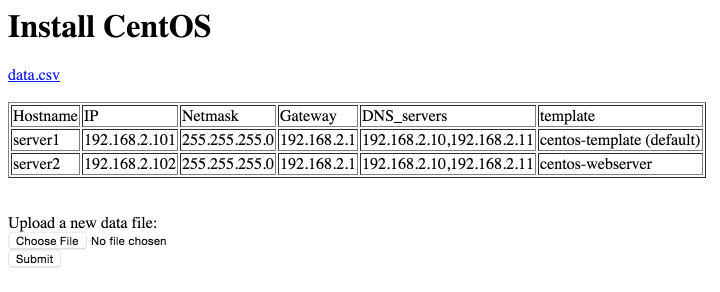
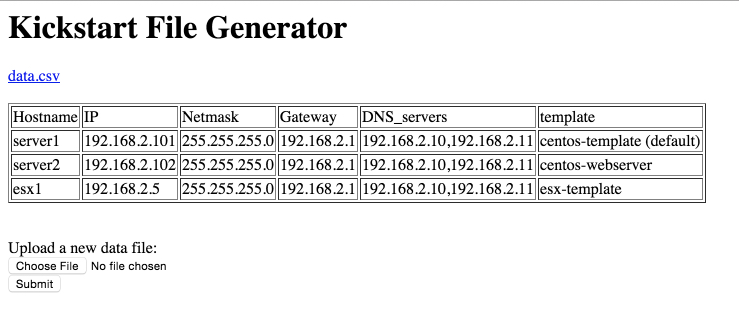
added an ESX kickstart template renamed centos.php to install.php

Changed region(s): [[0.0, 0.2158, 0.9778, 0.6781], [0.0, 0.0, 1.0, 0.1541], [0.0, 0.7397, 0.2444, 0.9555]]

diff --git a/install.php b/install.php
@@ -1,5 +1,6 @@
 <?php
 $input_hostname = htmlspecialchars($_GET["hostname"]);
+$input_action   = htmlspecialchars($_GET["action"]);
 
 $data_file = fopen('data.csv', 'r');
 while (($line = fgetcsv($data_file, 0, ";")) !== FALSE) {
@@ -10,19 +11,19 @@ while (($line = fgetcsv($data_file, 0, ";")) !== FALSE) {
   $dns      = htmlspecialchars($line[4]);
   $template = htmlspecialchars($line[5]);
   if ($template == "") { 
-     $template = "centos-template.cfg"; 
+    $template = "centos-template.cfg"; 
   } else {
-     $template = $template . ".cfg";
+    $template = $template . ".cfg";
   }
 
   if ($input_hostname == $hostname) {
     $kickstart_template = file_get_contents($template);
 
     $kickstart_template = str_replace('%HOSTNAME%', $hostname, $kickstart_template);
-    $kickstart_template = str_replace('%IPADDR%', $ip, $kickstart_template);
-    $kickstart_template = str_replace('%NETMASK%', $netmask, $kickstart_template);
-    $kickstart_template = str_replace('%GATEWAY%', $gateway, $kickstart_template);
-    $kickstart_template = str_replace('%DNS%', $dns, $kickstart_template);
+    $kickstart_template = str_replace('%IPADDR%',   $ip, $kickstart_template);
+    $kickstart_template = str_replace('%NETMASK%',  $netmask, $kickstart_template);
+    $kickstart_template = str_replace('%GATEWAY%',  $gateway, $kickstart_template);
+    $kickstart_template = str_replace('%DNS%',      $dns, $kickstart_template);
 
     #echo nl2br($kickstart_template);
     echo $kickstart_template;

diff --git a/index.php b/index.php
@@ -1,7 +1,7 @@
 <?php
 echo "<html>
 <body>
-<h1>Install CentOS</h1>";
+<h1>Kickstart File Generator</h1>";
 
 echo "<a href=data.csv>data.csv</a><br><br>";
 $data_file = fopen('data.csv', 'r');

diff --git a/README.md b/README.md
@@ -21,7 +21,7 @@ generate kickstart files for your linux installation
 ## Usage
 - boot from the CentOS installation iso file (netinstall or full depending on the kickstart file  
 - press tab during the installation selection menu
-- add ks=http://webserver/path/centos.php?hostname=myservername  
+- add ks=http://webserver/path/install.php?hostname=myservername  
   if you configured mod_rewrite corerctly you can use ks=http://webserver/path/server/myservername
 - wait until the installation finished
 
